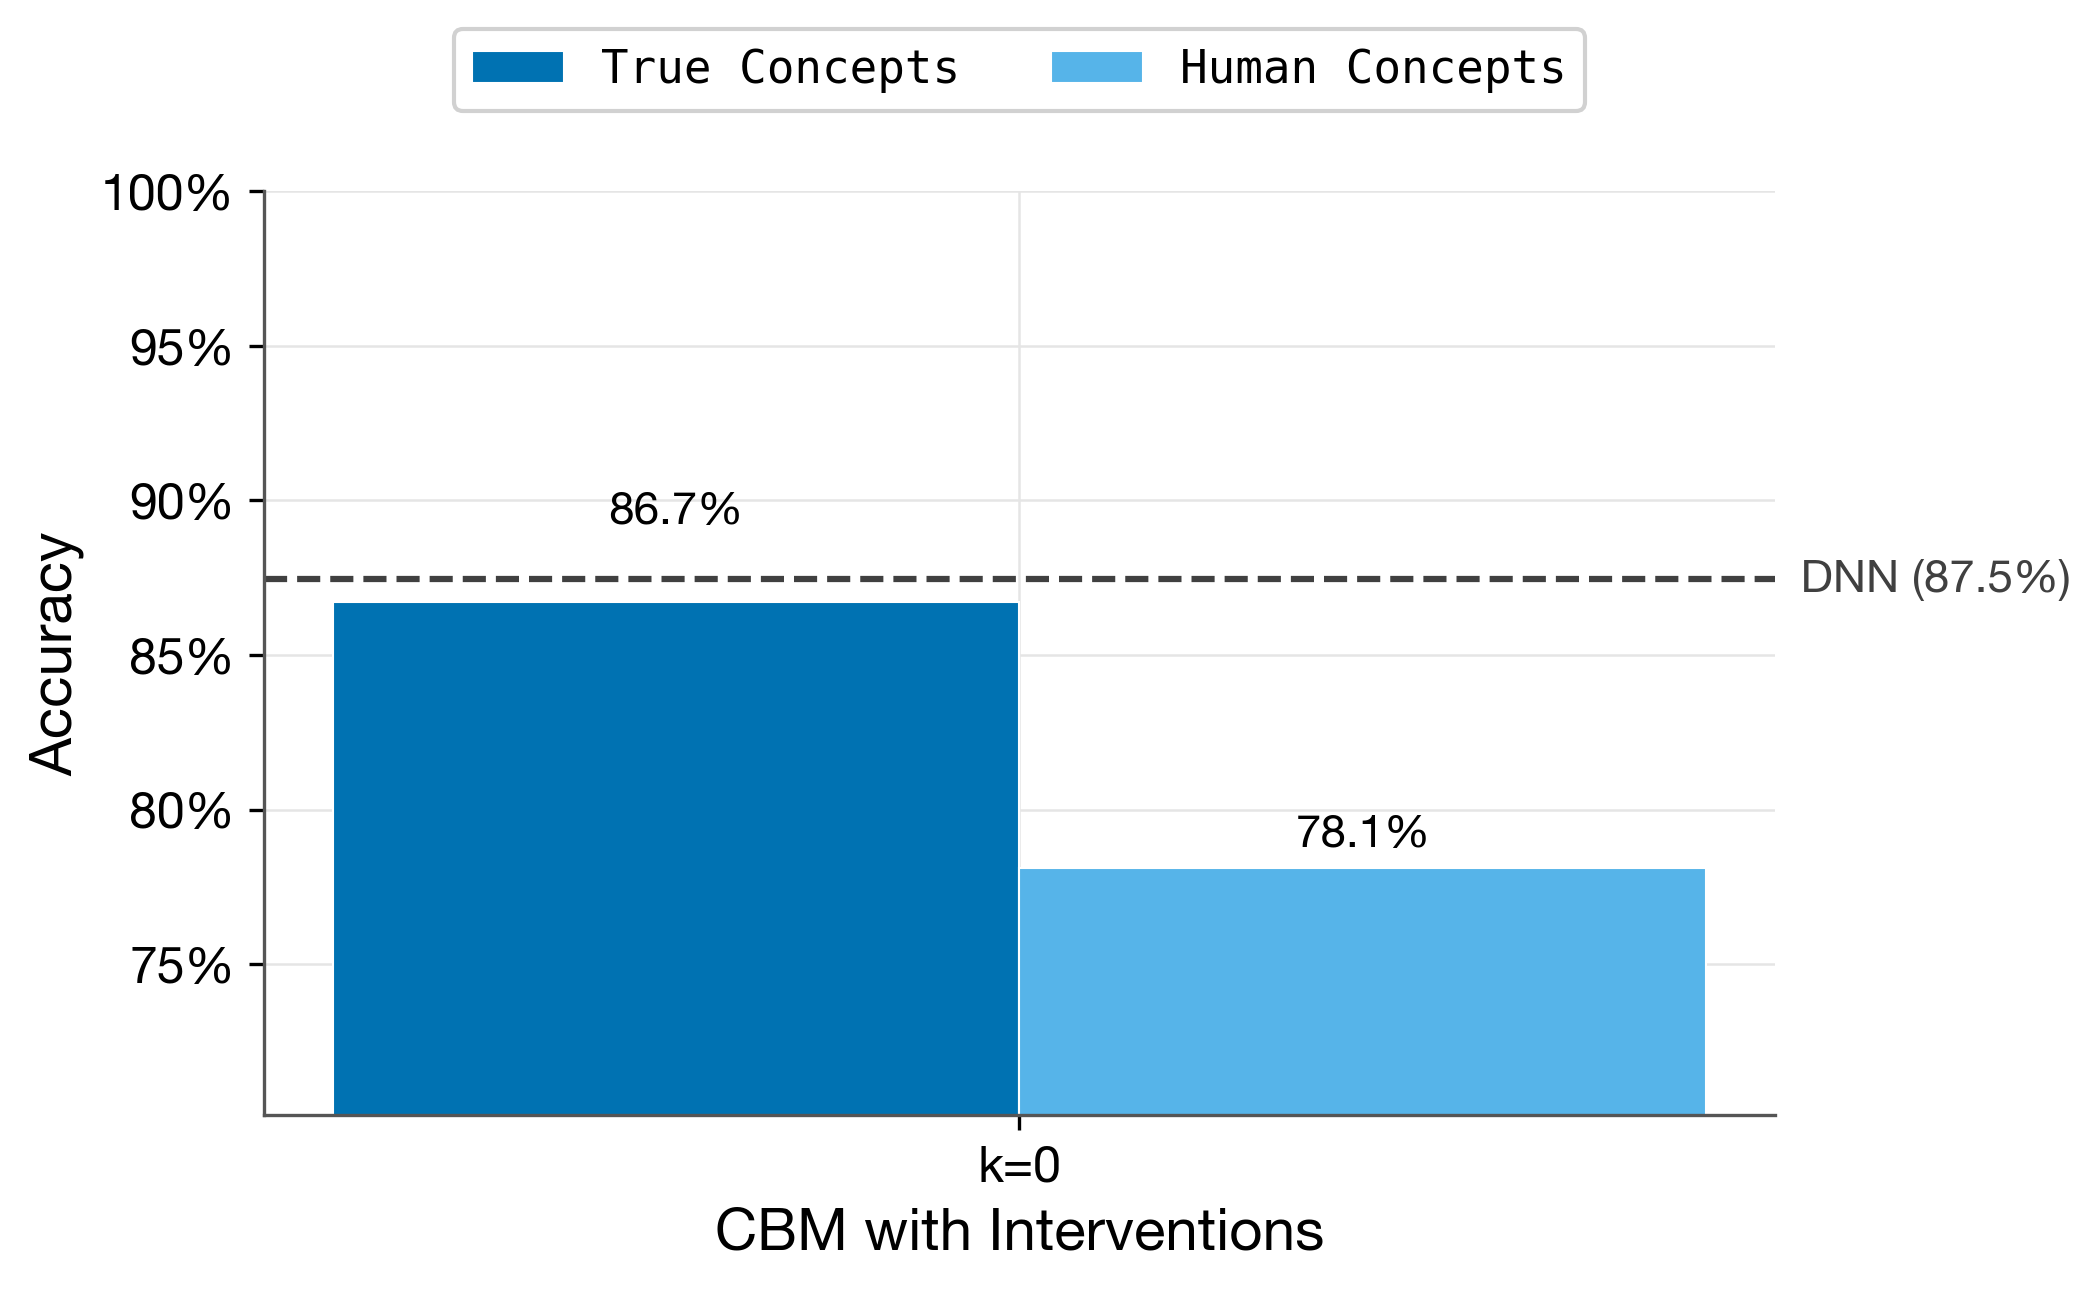
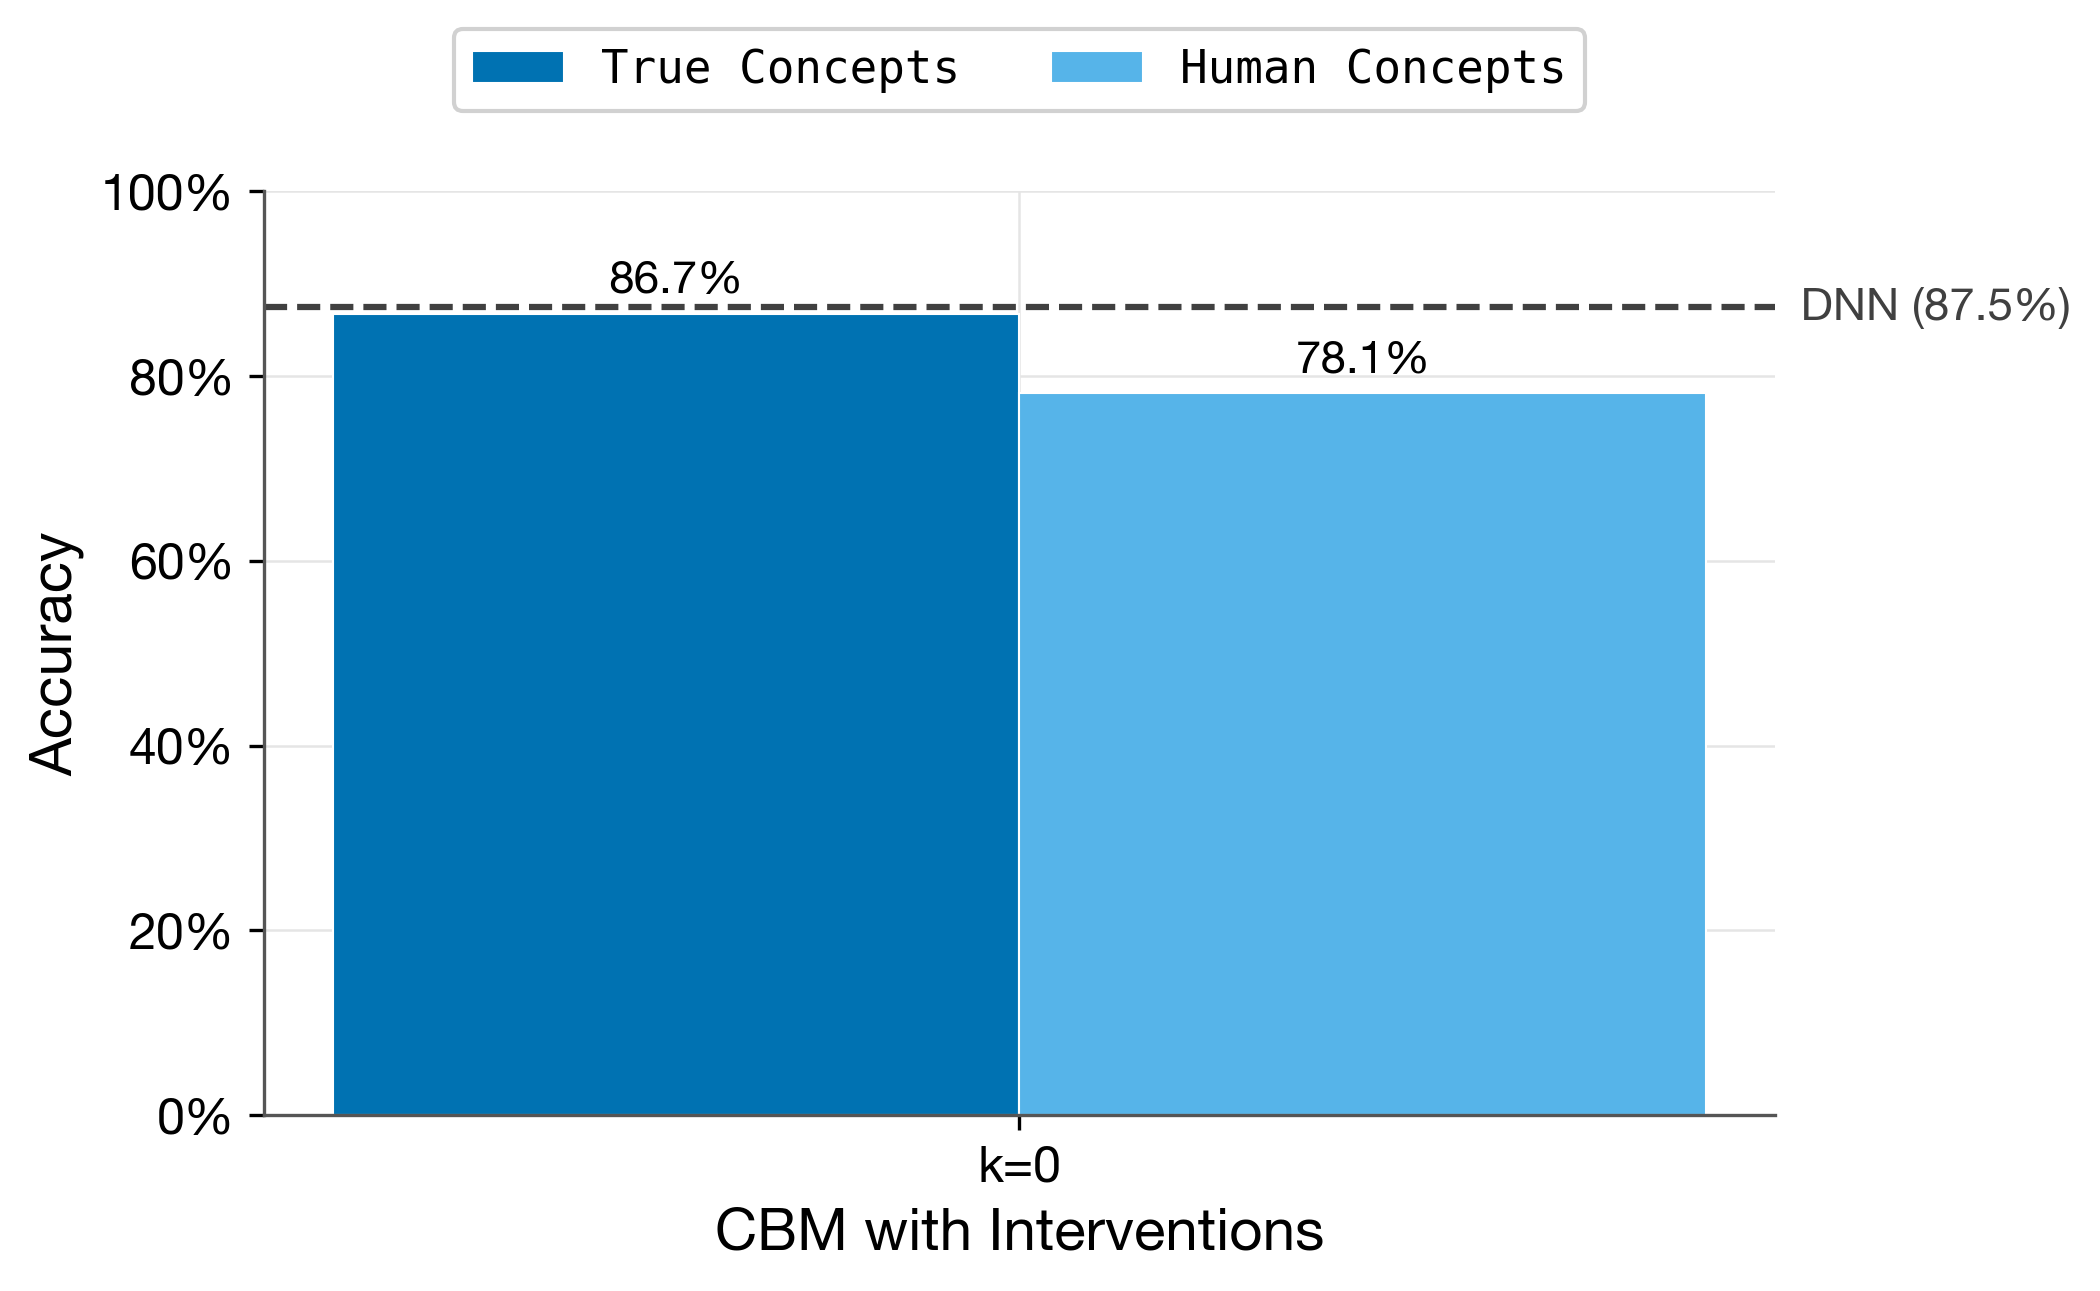
Start concept discovery y-axis at 0% for proper bar proportions

diff --git a/concept_benchmark/evaluation/plots.py b/concept_benchmark/evaluation/plots.py
@@ -513,11 +513,10 @@ def plot_concept_discovery(
     ax.set_ylabel("Accuracy", fontsize=style.FONT_SIZE)
     ax.yaxis.set_major_formatter(style.pct_formatter())
 
-    # Dynamic y-range: floor at min bar - padding, ceiling at max(data+padding, 100%)
+    # Y-axis starts at 0, ceiling at max(data+padding, 100%)
     all_vals = ideal_accs + sub_accs
-    y_floor = min(all_vals) - 8
     y_ceil = max(max(all_vals) + 8, 100)
-    ax.set_ylim(y_floor, y_ceil)
+    ax.set_ylim(0, y_ceil)
 
     leg = ax.legend(
         loc="upper center",
